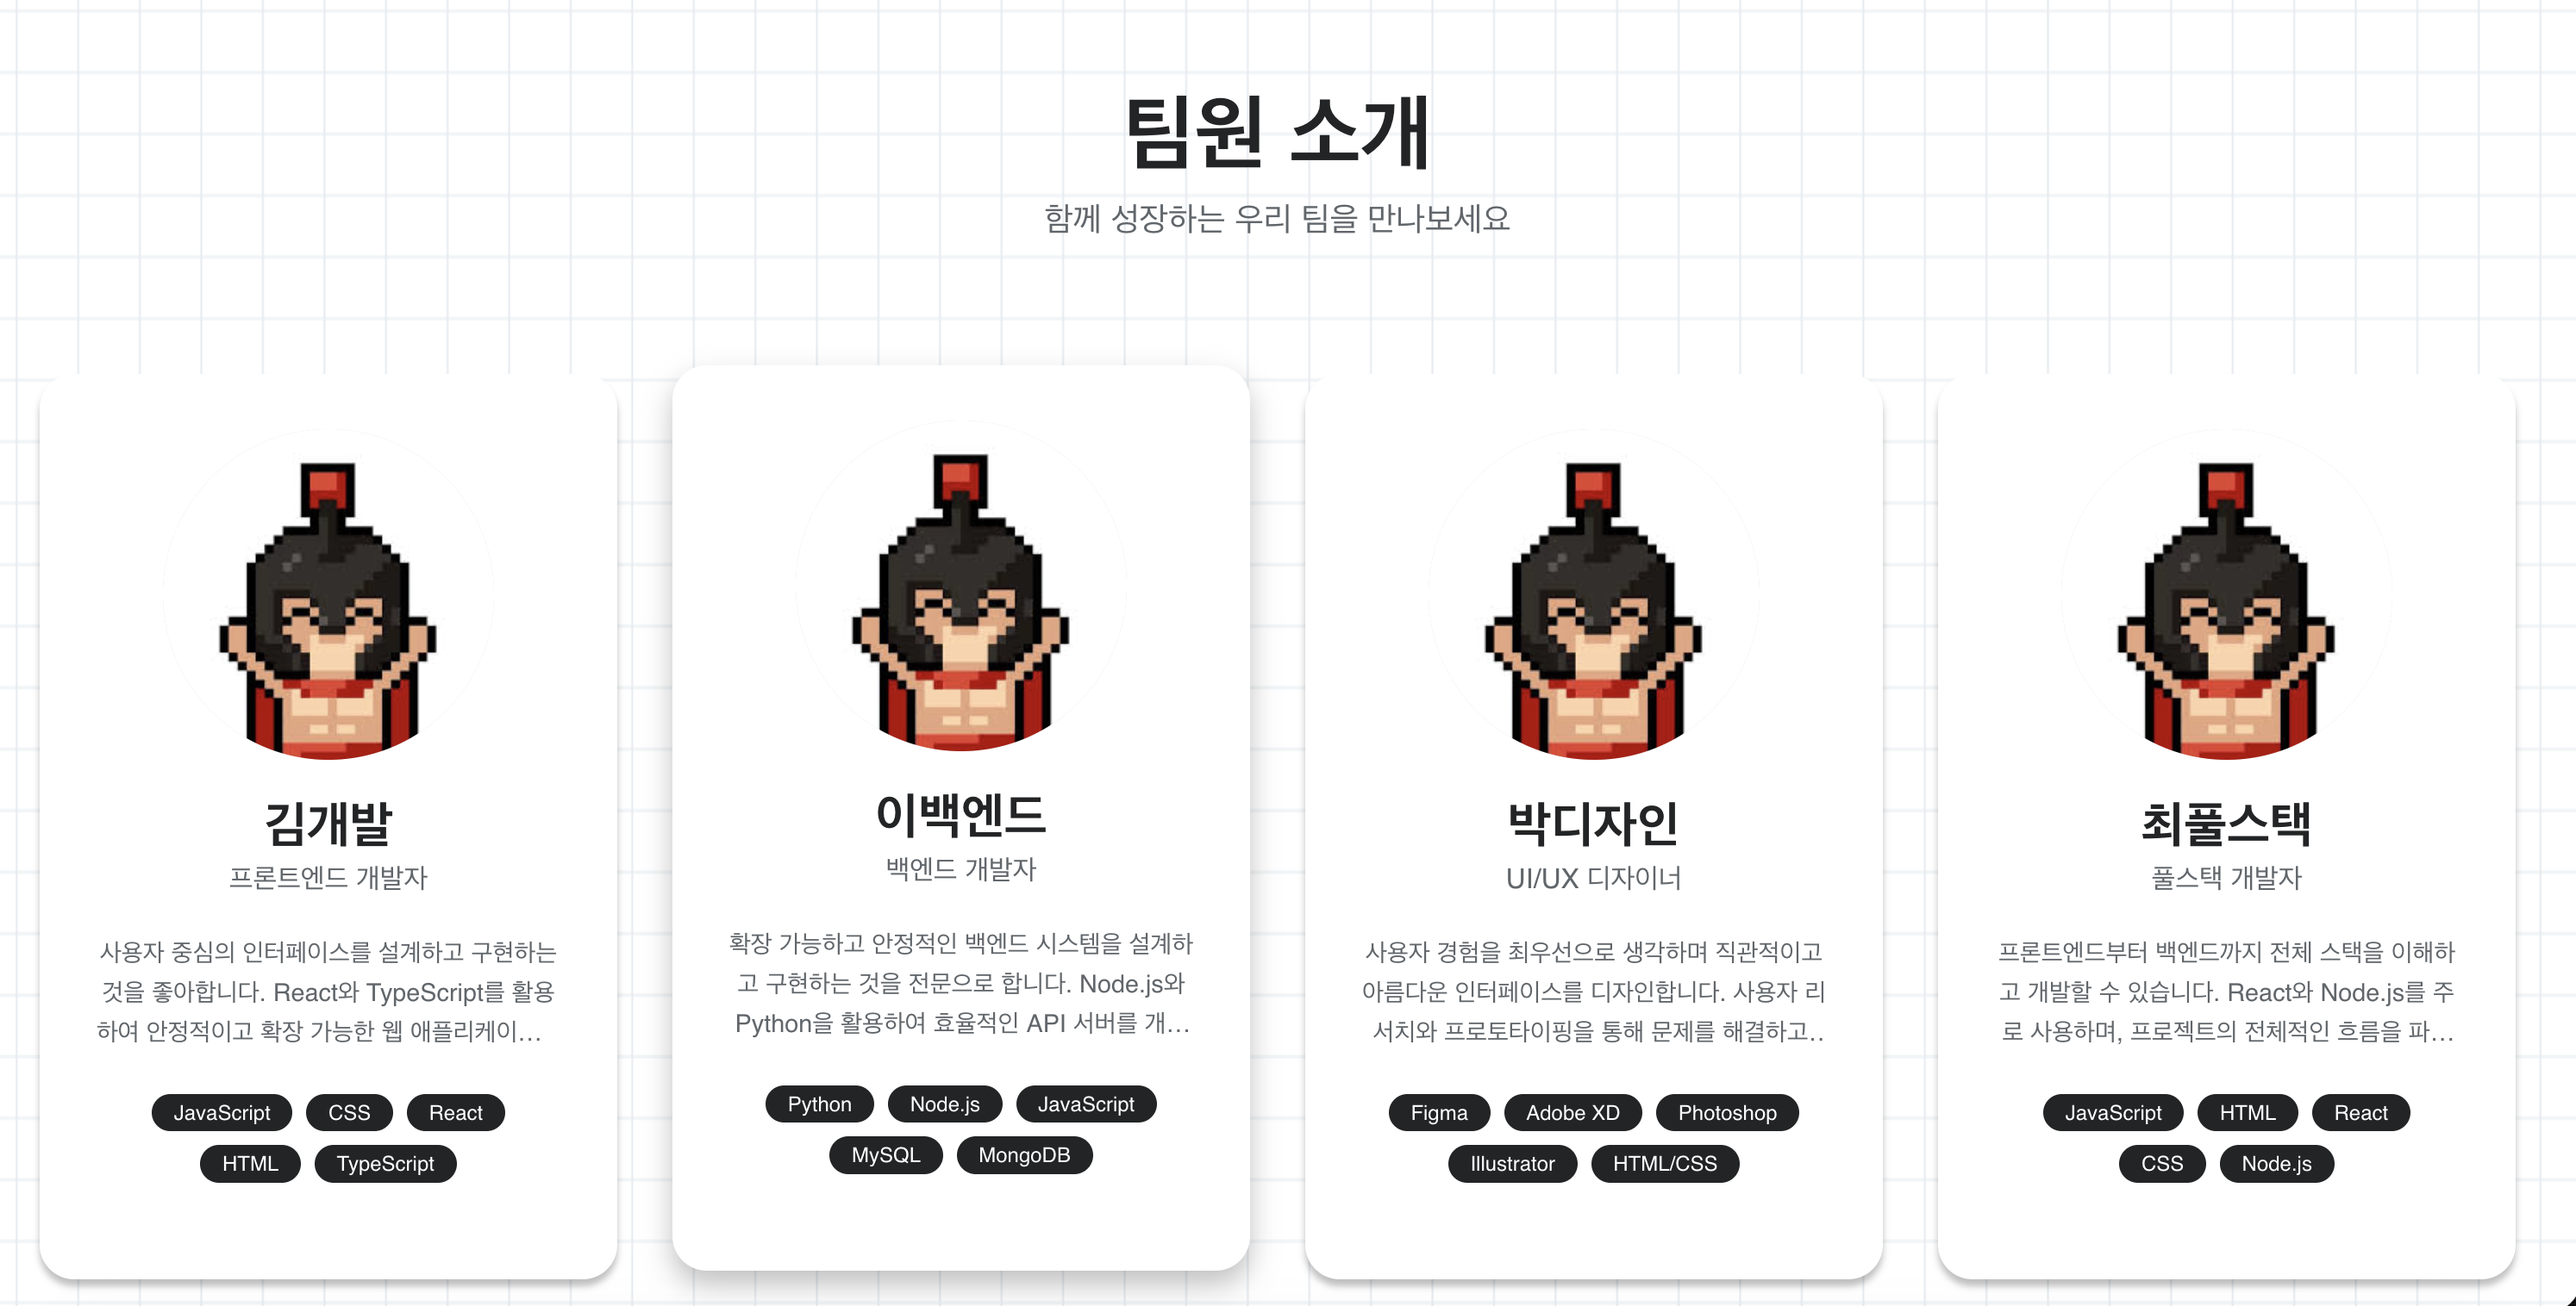
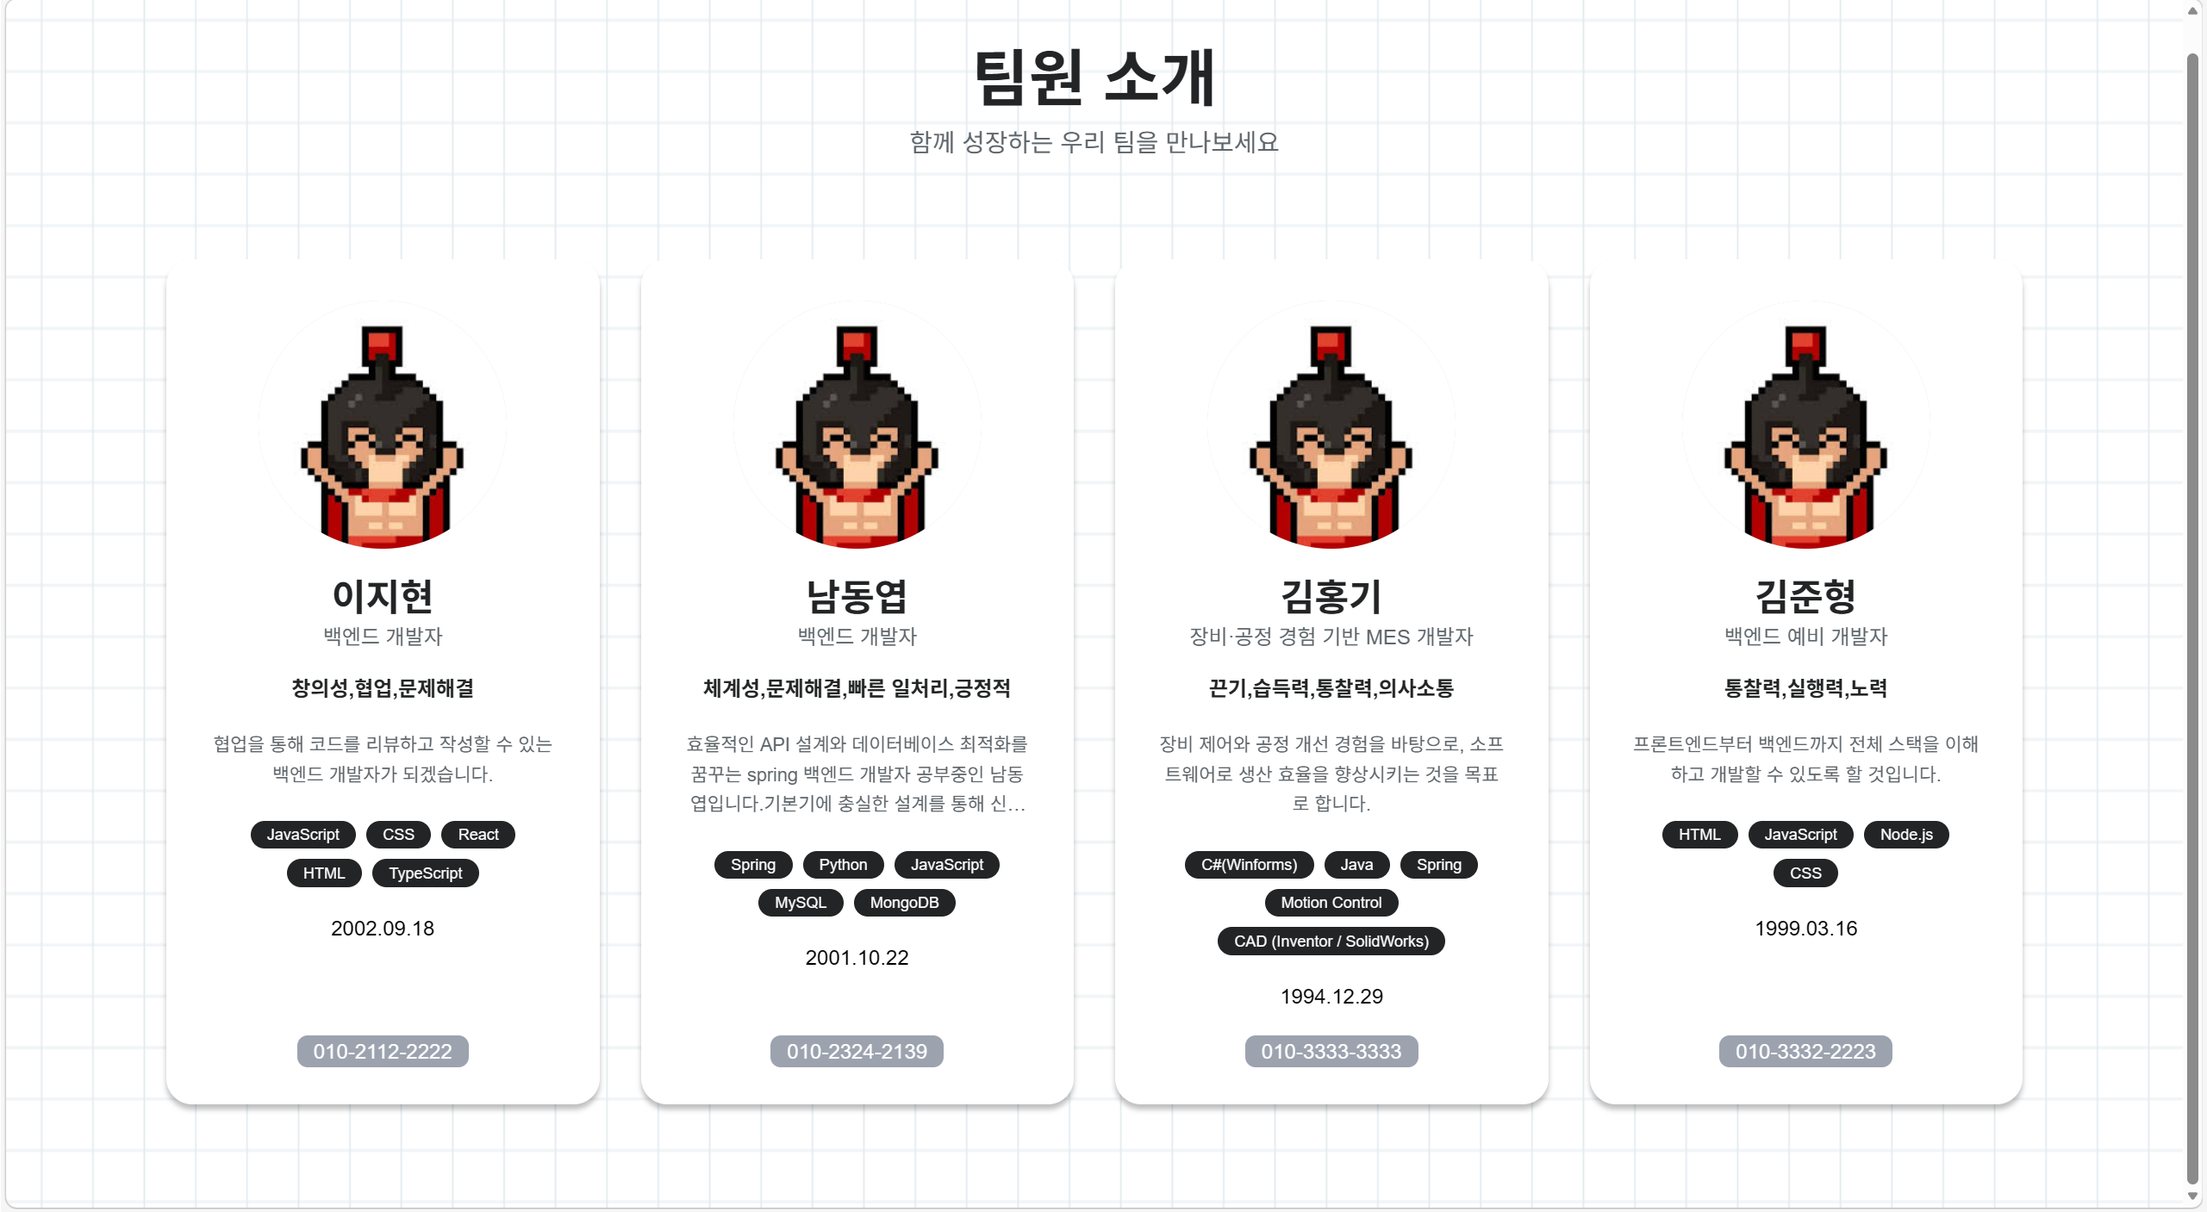
readme.md 수정

diff --git a/readme.md b/readme.md
@@ -10,13 +10,17 @@ Git 커밋 협업을 통한 팀원 소개 페이지 프로젝트입니다.
 sparta-git-cowork/
 ├── index.html          # 팀원 목록 페이지
 ├── members/           # 팀원 정보 JSON 파일 디렉토리
-│   ├── members.json   # 팀원 목록 파일
-│   ├── member1.json  # 템플릿 1 (프론트엔드 개발자)
-│   ├── member2.json  # 템플릿 2 (백엔드 개발자)
-│   ├── member3.json  # 템플릿 3 (UI/UX 디자이너)
-│   ├── member4.json  # 템플릿 4 (풀스택 개발자)
-│   ├── member5.json  # 템플릿 5 (데이터 분석가)
-│   └── example.json   # 예시 팀원 정보
+│   ├── members/
+│   │   ├── 남동엽.md  # 남동엽.md 파일 
+│   ├── members.json  # 팀원 목록 파일
+│   ├── member1.json  # 템플릿 1 (이지현 자기소개서)
+│   ├── member2.json  # 템플릿 2 (남동엽 자기소개서)
+│   ├── member3.json  # 템플릿 3 (김홍기 자기소개서)
+│   ├── member4.json  # 템플릿 4 (김준형 자기소개서)
+│   ├── example.json   # 예시 팀원 정보
+│   ├── 김준형.md       # 예시 팀원 정보
+│   ├── 김홍기.md       # 예시 팀원 정보
+│   └── 이지현.md       # 예시 팀원 정보 
 └── image/             # 이미지 파일 디렉토리
 ```
 
@@ -26,35 +30,34 @@ sparta-git-cowork/
 
 ```bash
 # 저장소 클론
-git clone <repository-url>
+git clone <rhttps://github.com/RyanKor/sparta-git-cowork.git>
 cd sparta-git-cowork
 
 # 새 브랜치 생성 (본인의 이름 또는 아이디로)
-git checkout -b add-member-<your-name>
+git checkout -b feature/<본인 이름-기능명>
 ```
 
 ### 2. 본인의 팀원 정보 추가
 
 **방법 1: 기존 템플릿 활용 (추천)**
 
-1. `members/` 디렉토리에서 본인과 가장 유사한 역할의 템플릿을 선택합니다:
-   - `member1.json` - 프론트엔드 개발자
-   - `member2.json` - 백엔드 개발자
-   - `member3.json` - UI/UX 디자이너
-   - `member4.json` - 풀스택 개발자
-   - `member5.json` - 데이터 분석가
+1. `members/` 디렉토리에서 각자 템플릿을 선택하여 자기소개서를 작성합니다.
+   - `member1.json` - 이지현 자기소개서
+   - `member2.json` - 남동엽 자기소개서
+   - `member3.json` - 김홍기 자기소개서
+   - `member4.json` - 김준형 자기소개서
+   
 
-2. 선택한 템플릿 파일을 복사하여 본인의 JSON 파일을 생성합니다:
+2. JSON 파일을 열어 본인의 정보를 작성합니다.
    ```bash
    cp members/member1.json members/본인아이디.json
    ```
 
-3. 생성한 JSON 파일을 열어 본인의 정보로 수정합니다.
-
+<br>
 **방법 2: 처음부터 작성**
 
-1. `members/` 디렉토리에 본인의 JSON 파일을 생성합니다.
-   - 파일명: `본인아이디.json` (예: `honggildong.json`)
+1. `members/` 디렉토리에 템플릿을 선택합니다.
+   - 파일명: `member1.json`(`member1~4까지 선택`)
 
 2. 아래 템플릿을 참고하여 본인의 정보를 작성합니다.
 
@@ -115,7 +118,7 @@ git checkout -b add-member-<your-name>
 }
 ```
 
-3. `members/members.json` 파일에 본인의 JSON 파일명을 추가합니다.
+3. `members/members.json` 파일에 본인의 JSON을 확인합니다.
 
 ```json
 {
@@ -130,11 +133,8 @@ git checkout -b add-member-<your-name>
 }
 ```
 
-   **중요**: 배열의 순서는 자유롭게 배치할 수 있습니다. 기존 템플릿들은 유지하고, 본인 파일만 추가하세요.
+   **중요**: 배열의 순서는 자유롭게 배치할 수 있습니다.
 
-4. 프로필 이미지를 `image/` 디렉토리에 추가합니다 (선택사항).
-   - 파일명: `본인아이디.png` 또는 `본인아이디.jpg`
-   - JSON 파일에서 `profileImage` 필드를 수정: `"image/본인아이디.png"`
 
 ### 3. 변경사항 커밋 및 푸시
 
@@ -143,21 +143,20 @@ git checkout -b add-member-<your-name>
 git status
 
 # 변경사항 스테이징
-git add members/your-id.json
 git add members/members.json
-git add image/your-profile.png  # 이미지가 있는 경우
+git add sparta_resume_strengths/add index.html  # 이미지가 있는 경우
 
 # 커밋
-git commit -m "Add: 홍길동 팀원 정보 추가"
+git commit -m "<이름> 자기소개 및 기능 추가 완료"
 
 # 푸시
-git push origin add-member-<your-name>
+git push origin feature/khg-intro
 ```
 
 ### 4. Pull Request 생성
 
 1. GitHub에서 Pull Request를 생성합니다.
-2. PR 제목: `Add: [본인 이름] 팀원 정보 추가`
+2. PR 제목: `<이름> 자기소개 및 기능 추가 완료`
 3. PR 설명에 본인의 간단한 소개를 작성합니다.
 
 ### 5. 코드 리뷰 및 머지
@@ -167,7 +166,7 @@ git push origin add-member-<your-name>
 
 ## 주의사항
 
-1. **파일명 규칙**: JSON 파일명은 `본인아이디.json` 형식으로 작성하세요.
+1. **파일명 규칙**: JSON 파일명은 `member.json` 형식으로 작성하세요.
 2. **JSON 형식**: JSON 파일의 문법 오류가 없도록 주의하세요.
 3. **이미지 경로**: 이미지 파일은 `image/` 디렉토리에 저장하고, 경로는 `image/파일명.png` 형식으로 작성하세요.
 4. **커밋 메시지**: 명확하고 간결한 커밋 메시지를 작성하세요.
@@ -179,30 +178,32 @@ git push origin add-member-<your-name>
 
 ```bash
 # 1. 브랜치 생성
-git checkout -b add-member-kim
+git checkout -b feature/khg-intro
 
 # 2. 템플릿 복사 (프론트엔드 개발자인 경우)
-cp members/member1.json members/kim.json
+cp members/member.json members/kim.json
 
 # 3. JSON 파일 수정
-# members/kim.json 파일을 열어 본인 정보로 수정
+# members/member3.json 파일을 열어 본인 정보로 수정
 
 # 4. members.json 업데이트
-# members/members.json에 "kim.json" 추가
+# members/members.json에 "member3.json" 추가
 
-# 5. 커밋 및 푸시
-git add members/kim.json members/members.json
-git commit -m "Add: 김철수 팀원 정보 추가"
-git push origin add-member-kim
+# 5. index.html 파일 수정
+# 기능 추가 - 폰 넘버 UI 표출
+
+# 6. 커밋 및 푸시
+git add members/member3.json members/members.json sparta_resume_strengths/add index.html
+git commit -m "김홍기 자기소개 및 기능 추가"
+git push origin feature/khg-intro
 ```
 
 ### 템플릿별 역할 안내
 
-- **member1.json** (김개발): 프론트엔드 개발자 - React, TypeScript 중심
-- **member2.json** (이백엔드): 백엔드 개발자 - Node.js, Python 중심
-- **member3.json** (박디자인): UI/UX 디자이너 - Figma, Adobe XD 중심
-- **member4.json** (최풀스택): 풀스택 개발자 - React, Node.js 모두
-- **member5.json** (정데이터): 데이터 분석가 - Python, SQL, 머신러닝 중심
+- **member1.json** (이지현): "strengths" 항목 화면 표출
+- **member2.json** (남동엽): "birthday" 항목 화면 표출
+- **member3.json** (김홍기): "phone" 항목 화면 표출
+- **member4.json** (김준형): 예비군 참석
 
 본인의 역할과 가장 유사한 템플릿을 선택하여 수정하시면 됩니다!
 
